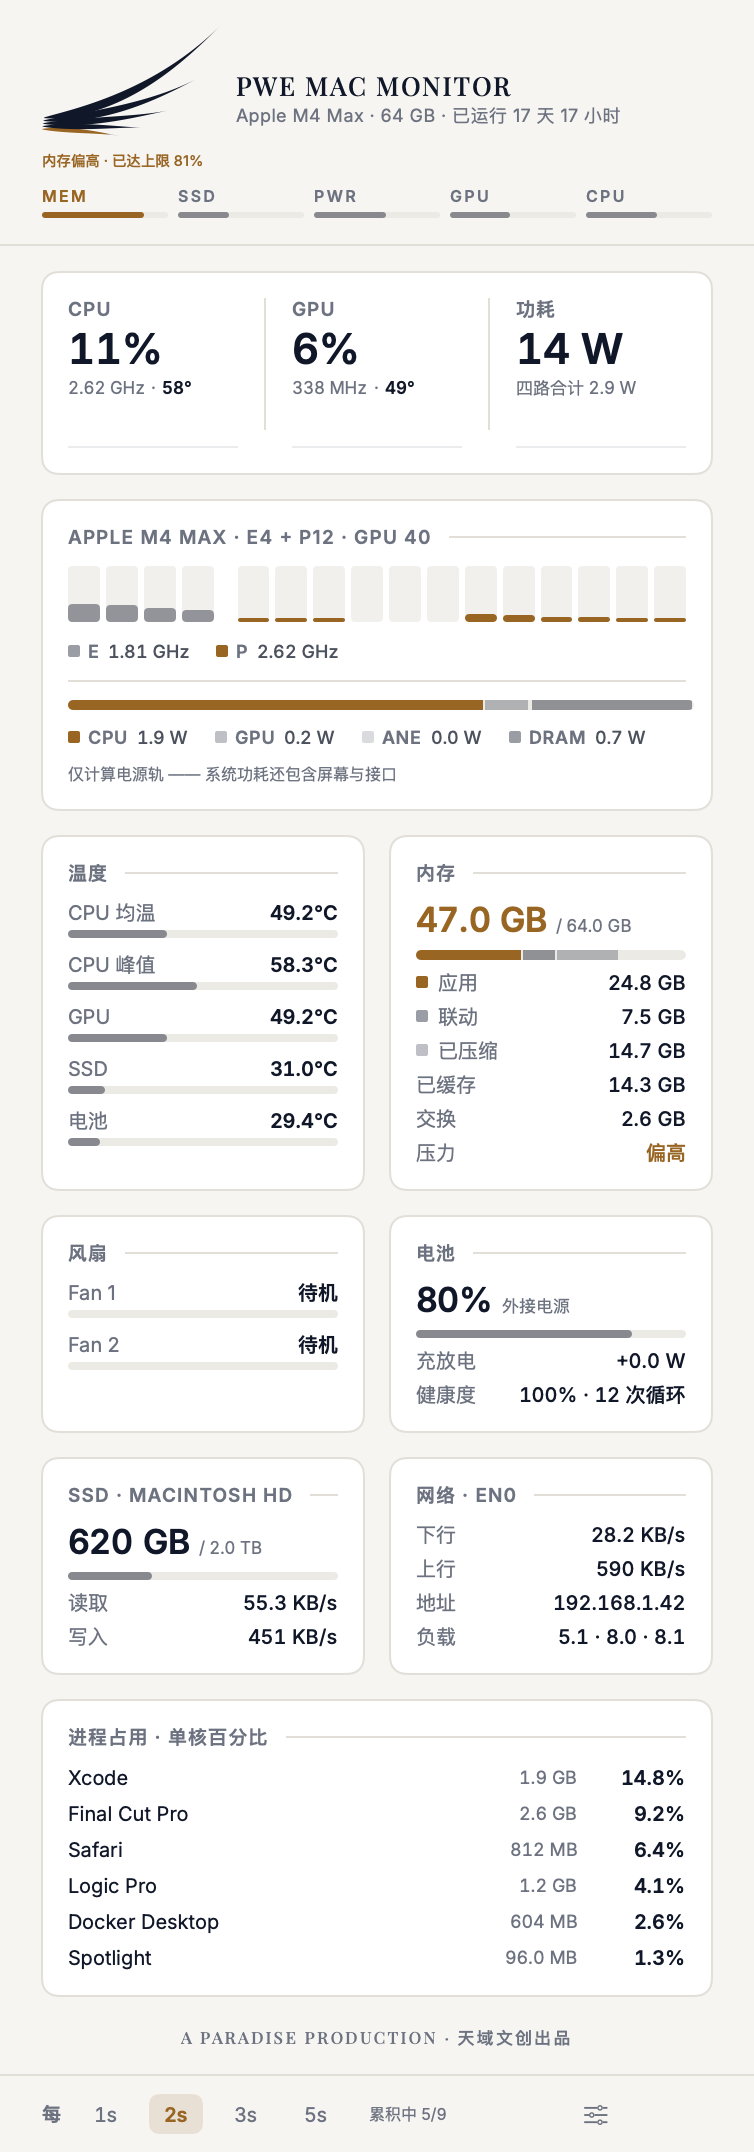
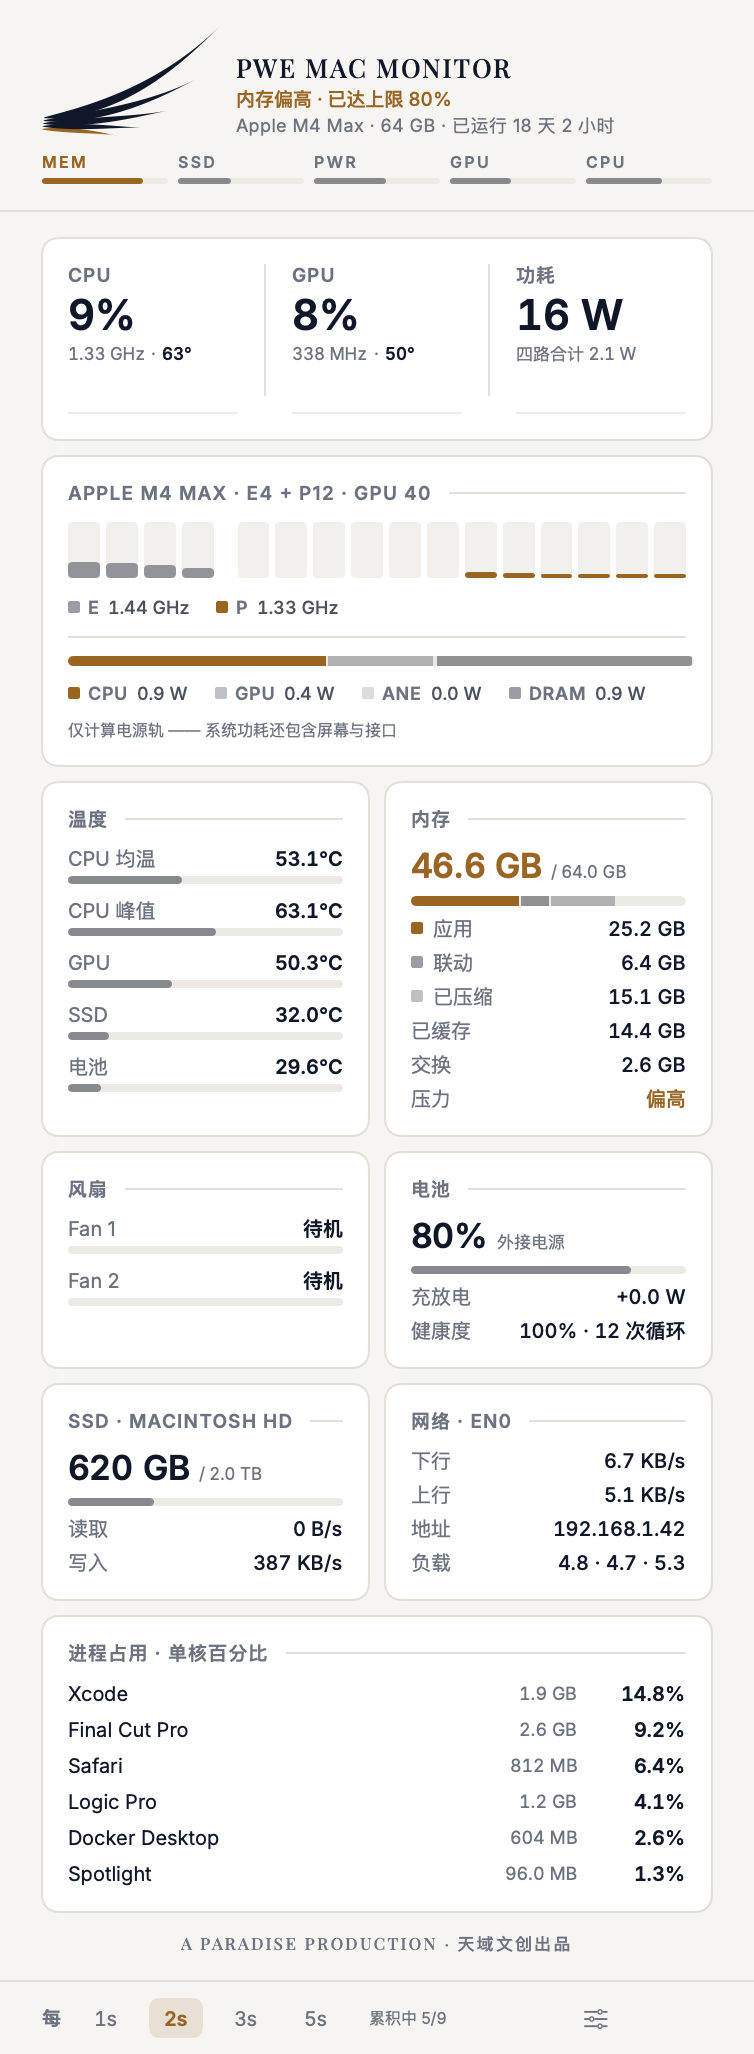
Give the verdict the wing's own space, and tighten the module rhythm
Two small changes, and the reasoning for the large ones we did not make.

The verdict was a row of its own under the wing. The wing is 55 pt and the
text beside it was two lines of 27, so a third line lands in space the header
already occupied — the row was 19 pt bought for nothing. It also reads better
in the block: name, then state, then the hardware you read once. It has 238 pt
there, and the longest verdict the app can produce measures 193.

Inter-module spacing goes 13 to 8 — one step down the Fibonacci scale, not an
arbitrary number. The six cards now read as one block instead of six, and the
space between modules stopped competing with the 13 pt padding inside them.

1070 to 1021 pt, 1076 to 1027 in Chinese, both stable on the first layout pass.
Nothing removed, nothing hidden.

docs/panel-height.md records where the height actually goes, measured off a
render rather than estimated, and costs five layouts against it — density
surgery, progressive disclosure, and three-across at 521 and 466. It also
records three measured dead ends, including one this repo already shipped:
re-pairing the grid rows saves nothing, because a GridRow takes its taller
card and the original pairing was already at that bound.

diff --git a/Sources/App/DashboardView.swift b/Sources/App/DashboardView.swift
@@ -32,7 +32,7 @@ struct DashboardView: View {
             BrandHeader(monitor: monitor, dark: dark)
             Divider().overlay(Theme.stroke(dark))
             ScrollView(.vertical) {
-                VStack(alignment: .leading, spacing: Theme.s3) {
+                VStack(alignment: .leading, spacing: Theme.s2) {
                     if let e = monitor.error { banner(e.message) }
                     hero
                     silicon
@@ -46,7 +46,7 @@ struct DashboardView: View {
                     // what is moving in and out. This buys no height and was measured rather than
                     // assumed — a GridRow takes its taller card, the four run 74 / 88 / 89 / 106 pt,
                     // and no pairing beats 106 + 89. The old order was already at that bound.
-                    Grid(horizontalSpacing: Theme.s3, verticalSpacing: Theme.s3) {
+                    Grid(horizontalSpacing: Theme.s2, verticalSpacing: Theme.s2) {
                         GridRow { thermalCard; memory }
                         GridRow { fans; battery }
                         GridRow { storage; network }
@@ -452,23 +452,28 @@ private struct BrandHeader: View {
                     .accessibilityElement()
                     .accessibilityLabel(L("a11y.systemState", "System state"))
                     .accessibilityValue(ch.spoken)
-                VStack(alignment: .leading, spacing: 1) {
+                VStack(alignment: .leading, spacing: 2) {
                     Text("PWE MAC MONITOR").font(Theme.serif(13, 500)).tracking(0.9)
+                    // The mark states all five channels exactly, and says nothing. Someone opening
+                    // this for the first time sees a wing and five grey bars with no statement of
+                    // what they mean; the sentence VoiceOver has always been given belongs on the
+                    // screen too. Muted while calm — colour here means "look at me".
+                    //
+                    // Second line, not a row of its own below the wing. The wing is 55 pt and the
+                    // text beside it was two lines of 27, so a third line lands in space the
+                    // header already occupied: 33 pt for nothing. It also reads better here,
+                    // directly under the name, with the hardware — which you read once — below it.
+                    // 238 pt to work in at this width; the longest reachable verdict measures 193.
+                    Text(ch.headline)
+                        .font(Theme.ui(9.5, 500))
+                        .foregroundStyle(worst == .calm ? Theme.muted(dark) : Theme.health(worst, dark: dark))
+                        .lineLimit(1).minimumScaleFactor(0.75)
                     Text("\(monitor.soc?.chipName ?? "Apple Silicon") · \(monitor.soc?.memoryGB ?? 0) GB · "
                          + String(format: L("value.up", "up %@"), Fmt.uptime(monitor.snap.uptime)))
                         .font(Theme.ui(9)).tracking(0.2).foregroundStyle(Theme.muted(dark))
                 }
-                .padding(.bottom, Theme.s1)
                 Spacer(minLength: 0)
             }
-            // The mark states all five channels exactly, and says nothing. Someone opening this
-            // for the first time sees a wing and five grey bars with no statement of what they
-            // mean; the sentence VoiceOver has always been given belongs on the screen too.
-            // Muted while calm, because colour in this interface means "look at me".
-            Text(ch.headline)
-                .font(Theme.ui(9.5, 500))
-                .foregroundStyle(worst == .calm ? Theme.muted(dark) : Theme.health(worst, dark: dark))
-                .lineLimit(1).minimumScaleFactor(0.75)
             ChannelLegend(channels: ch, dark: dark)
         }
         .padding(.horizontal, Theme.s4).padding(.vertical, Theme.s3)

diff --git a/docs/panel-height.md b/docs/panel-height.md
@@ -1,0 +1,203 @@
+# Panel height
+
+The panel is tall. This is where the height goes, what it would cost to get it back, and which
+ideas were measured and killed. Everything here was measured off a real render — nothing estimated.
+
+## Where it goes
+
+Measured 2026-09-07 on an M4 Max (E4 + P12, 64 GB, two fans, 2 TB), by scanning
+`docs/dashboard-light.png` for the white card runs — cards are `#FFFFFF` on the `#F7F5F2` ground.
+Reproduce with the scanner in **Measuring** below.
+
+| Block | 1.2.0 | 1.2.1 |
+|---|---|---|
+| Header — wing, wordmark, verdict, channel legend | 137 | **118** |
+| CPU / GPU / POWER | 98 | 98 |
+| Cores + power rails | 152 | 152 |
+| THERMALS \| MEMORY | 174 | 174 |
+| FANS \| BATTERY | 105 | 105 |
+| SSD \| NETWORK | 105 | 105 |
+| TOP PROCESSES | 145 | 145 |
+| Signature + control bar + inter-module gaps | 154 | 124 |
+| **Total** | **1070** | **1021** |
+
+Card *content* heights, which is what a re-layout has to work with — a `GridRow` takes its taller
+card, so the row figures above hide this:
+
+| Card | Content | Card | Content |
+|---|---|---|---|
+| THERMALS | 165.5 | BATTERY | 106.0 |
+| MEMORY | 173.0 | SSD | 105.0 |
+| FANS | 87.5 | NETWORK | 104.0 |
+
+BATTERY, SSD and NETWORK sit within 2 pt of each other. That is the fact every three-across
+scheme below is built on.
+
+## The fold
+
+`maxBodyHeight = max(320, NSScreen.main.visibleFrame.height - 190)` clamps the scroll view, so the
+panel scrolls once it passes `header + maxBodyHeight + controlBar + 2`.
+
+| Machine | Panel fits up to |
+|---|---|
+| 16" MacBook Pro | ~1050 pt |
+| 14" MacBook Pro | ~967 pt |
+| 13" MacBook Air, Dock hidden | ~883 pt |
+| 13" MacBook Air, Dock showing | ~813 pt |
+
+1.2.1 at 1021 pt fits a 16" and scrolls 54 pt on a 14".
+
+## What 1.2.1 did
+
+Two changes, deliberately small.
+
+**The verdict moved into the wordmark block** — second line, above the hardware line. It had been a
+row of its own under the wing, and the wing is 55 pt against two lines of 27, so a third line lands
+in space the header already occupied. It also reads better there: name, then state, then the
+hardware you read once. The line has 238 pt beside the wing and the longest reachable verdict
+(`Memory warm · 100% to its limit · 另有 4 项`) measures 193.
+
+**Inter-module spacing went 13 → 8** — one step down the Fibonacci scale, not an arbitrary number.
+The six cards now read as one block, and the space between modules stopped competing with the
+13 pt padding inside them.
+
+Together: **−49 pt**, no reading removed, no card hidden.
+
+## The five schemes
+
+None of these is implemented. Each was costed against the measurements above.
+
+### A · Density surgery — 377 pt, 985 pt tall
+
+Every reading stays on screen; the chrome and the redundant encodings pay.
+
+- Thermals and fans: the bar moves from below the row to behind it (row 20 → 15 pt) — −45
+- Memory: App / Wired / Compressed fold into one legend line under the stacked bar — −34
+- Network: four rows become 2 × 2 — −26
+- Cores: the E/P frequency legend folds into the card title — −16
+- Battery and SSD lose their bars, which repeat the headline — −18
+- Processes: row spacing 5 → 3 — −10
+
+**14": still 18 pt over. 13": still ~100 over.** Seven changes to information display for 8 %.
+Costs three redundant encodings. Not worth it on its own.
+
+### B · Progressive disclosure — 377 pt, 834 pt tall
+
+Primary view: header, CPU/GPU/POWER, cores + rails, THERMALS | MEMORY, TOP PROCESSES.
+Collapsed: FANS | BATTERY, SSD | NETWORK (and ALL SENSORS, already optional). Toggle sits in the
+control bar, costing no height.
+
+Not tabs. Tabs halve the content with neither half complete; here the primary view still answers
+*is anything wrong* on its own, and the toggle is sticky in `UserDefaults` exactly like
+`showSensors` — set once, never clicked again.
+
+**Fits every machine, 13" included.** Costs four cards behind one click.
+
+### C · Three across — 521 pt, 965 pt tall
+
+Widen, and lay the six lower cards three to a row instead of two.
+
+- Row 1 — *pressure*: THERMALS, MEMORY, FANS → 173 (MEMORY governs)
+- Row 2 — *flow*: BATTERY, SSD, NETWORK → 106 (all three within 2 pt)
+
+410 → 292, minus one gap. The grouping is also height-optimal: the two tall cards must share a row,
+and the semantic alternative (thermals|fans|battery + memory|ssd|network) costs 60 pt more.
+
+Widening pays independently: core bars 21 → 28 pt each, sparklines 110 → 151 pt, process names stop
+truncating, hero numbers stop hitting `minimumScaleFactor`.
+
+Width is set by the widest thing in a card, measured at 10 pt Inter:
+
+| | pt |
+|---|---|
+| Title `SSD · MACINTOSH HD` | **118.3** ← the binding constraint |
+| `Health 100% · 12 cycles` | 114.7 (Chinese 113.3) |
+| `Address 192.168.1.42` | 101.5 |
+| `Compressed 14.7 GB` | 100.8 |
+
+`(W − 68) / 3 − 26 ≥ 118.3` → **W ≥ 501**. 521 = 377 + 144, both Fibonacci, leaving 7 pt.
+
+**965 against a 967 fold is not a margin.** One more fan or a longer volume name crosses it.
+
+### C+ · Three across with A's cheapest moves — 521 pt, 929 pt tall
+
+C, plus the thermals/fans row background, the memory legend and the battery bar. **14" fits with
+38 pt to spare. 13" still scrolls 44.**
+
+### D · Three across at 466 pt — 466 pt, 881 pt tall
+
+Drop the volume name — `SSD · MACINTOSH HD` 118.3 → `SSD` 21.7 — and the binding constraint
+disappears. A 466 pt panel gives 106.7 pt of usable card width, and everything fits:
+
+| | pt | |
+|---|---|---|
+| `Compressed 14.7 GB` | 104.5 | ✓ |
+| `Address 192.168.1.42` | 105.1 | ✓ (1.6 spare; the value scales to 0.75 before truncating) |
+| `NETWORK · EN0` | 87.5 | ✓ |
+| `+0.0 W · 100% · 12 cycles` | 109.9 | ✗ by 3 — drop the spaces around the separators |
+| `↓ 346 KB/s ↑ 12.9 MB/s` | 109.6 | ✗ by 3 — same fix |
+
+Content changes: thermals and fans get the row background; battery merges Flow and Health into one
+line under the bar; SSD merges Read and Write; network merges Down and Up; memory drops Cached.
+Grid 410 → 251. With the 1.2.1 header, **881 pt**.
+
+**The only readings actually removed are the volume name and Cached.** Everything else is
+re-arrangement. **14" fits with 86 pt to spare** — the only scheme with a real margin. 13" is
+borderline: fits with the Dock hidden, scrolls ~68 pt with it showing.
+
+One implementation note: `SectionLabel` is `fixedSize(horizontal: true)`, so it overflows rather
+than truncating. Fine at 377; at 466 a `NETWORK · BRIDGE0` would run past the card. It needs
+`.truncationMode(.tail)` before any narrow-card scheme ships.
+
+### Side by side
+
+| | Width | Height | 14" | 13" Air | Actually removed |
+|---|---|---|---|---|---|
+| 1.2.0 | 377 | 1070 | scrolls 103 | scrolls 185 | — |
+| **1.2.1** | **377** | **1021** | scrolls 54 | scrolls 138 | nothing |
+| A | 377 | 985 | scrolls 18 | scrolls 100 | 3 redundant encodings |
+| B | 377 | 834 | ✓ | ✓ | 4 cards behind a click |
+| C+ | 521 | 929 | ✓ 38 spare | scrolls 44 | 3 redundant encodings |
+| D | 466 | 881 | ✓ 86 spare | borderline | volume name, Cached |
+
+D and B combine: D's layout with B's toggle on the *flow* row reaches ~776 pt and clears a 13" with
+the Dock showing.
+
+## Dead ends
+
+Measured, and wrong. Recorded so they are not proposed again.
+
+**Re-pairing the grid rows saves nothing.** A `GridRow` takes its taller card. The four cards run
+74 / 88 / 89 / 106 pt, and no pairing beats 106 + 89 — the original order was already at that bound.
+1.2.0 shipped a re-pairing believing it saved 65 pt; it saved 1 pt and was kept only because the
+grouping reads better.
+
+**The memory legend does not fit a narrow card.** Folding App / Wired / Compressed into one line,
+the way the power rails do, needs about 200 pt. A three-across card at 466 has 106.7. It works only
+in a two-across card, which is why it appears in A and not in D.
+
+**Two-column memory does not fit either.** Each half would get 50.4 pt; `Compressed 14.7` alone is
+82.4. Memory keeps labelled rows — that pairing is exactly what makes the card readable — and only
+`App 23.8 · Wired 7.0` (95 pt) fits on a shared line.
+
+**Merging FANS into THERMALS makes the panel taller.** FANS rides in a row whose height is set by
+its neighbour, so it is currently free; moving its two rows into THERMALS adds 54 pt to a card that
+already governs its row, for a net +34.
+
+## Measuring
+
+Card and content heights, from a render rather than from the source:
+
+```bash
+"build/PWE MAC MONITOR.app/Contents/MacOS/pwemon" --snapshot docs --demo
+```
+
+`--snapshot` prints the first-pass height against the settled one — they must be equal, or the
+popover resizes after it opens. Add `-language zh-Hans` for the Chinese layout, which runs a few
+points taller.
+
+To measure a card, scan a column inside its own left padding, where no text falls; a white run is
+one card. Stay 5 pt inside every edge — the rounded-rect stroke runs the card's full height and
+will otherwise read as content. Text widths come from `CTLineGetTypographicBounds` with the
+bundled Inter registered through `CTFontManagerRegisterFontsForURL`; that is how every figure in
+this file was produced.

diff --git a/README.md b/README.md
@@ -87,6 +87,8 @@ answer — is anything wrong — and the panel answers the rest. [The full desig
 the prototype that settled it, is in `docs/wing-states.md`](docs/wing-states.md).
 [How the two languages
 work, and the three traps that produced bugs, is in `docs/localisation.md`](docs/localisation.md).
+[Where the panel's height goes, and the five
+layouts costed against it, is in `docs/panel-height.md`](docs/panel-height.md).
 
 When nothing is wrong the mark is drawn solid, exactly as the brand standard draws it.
 
